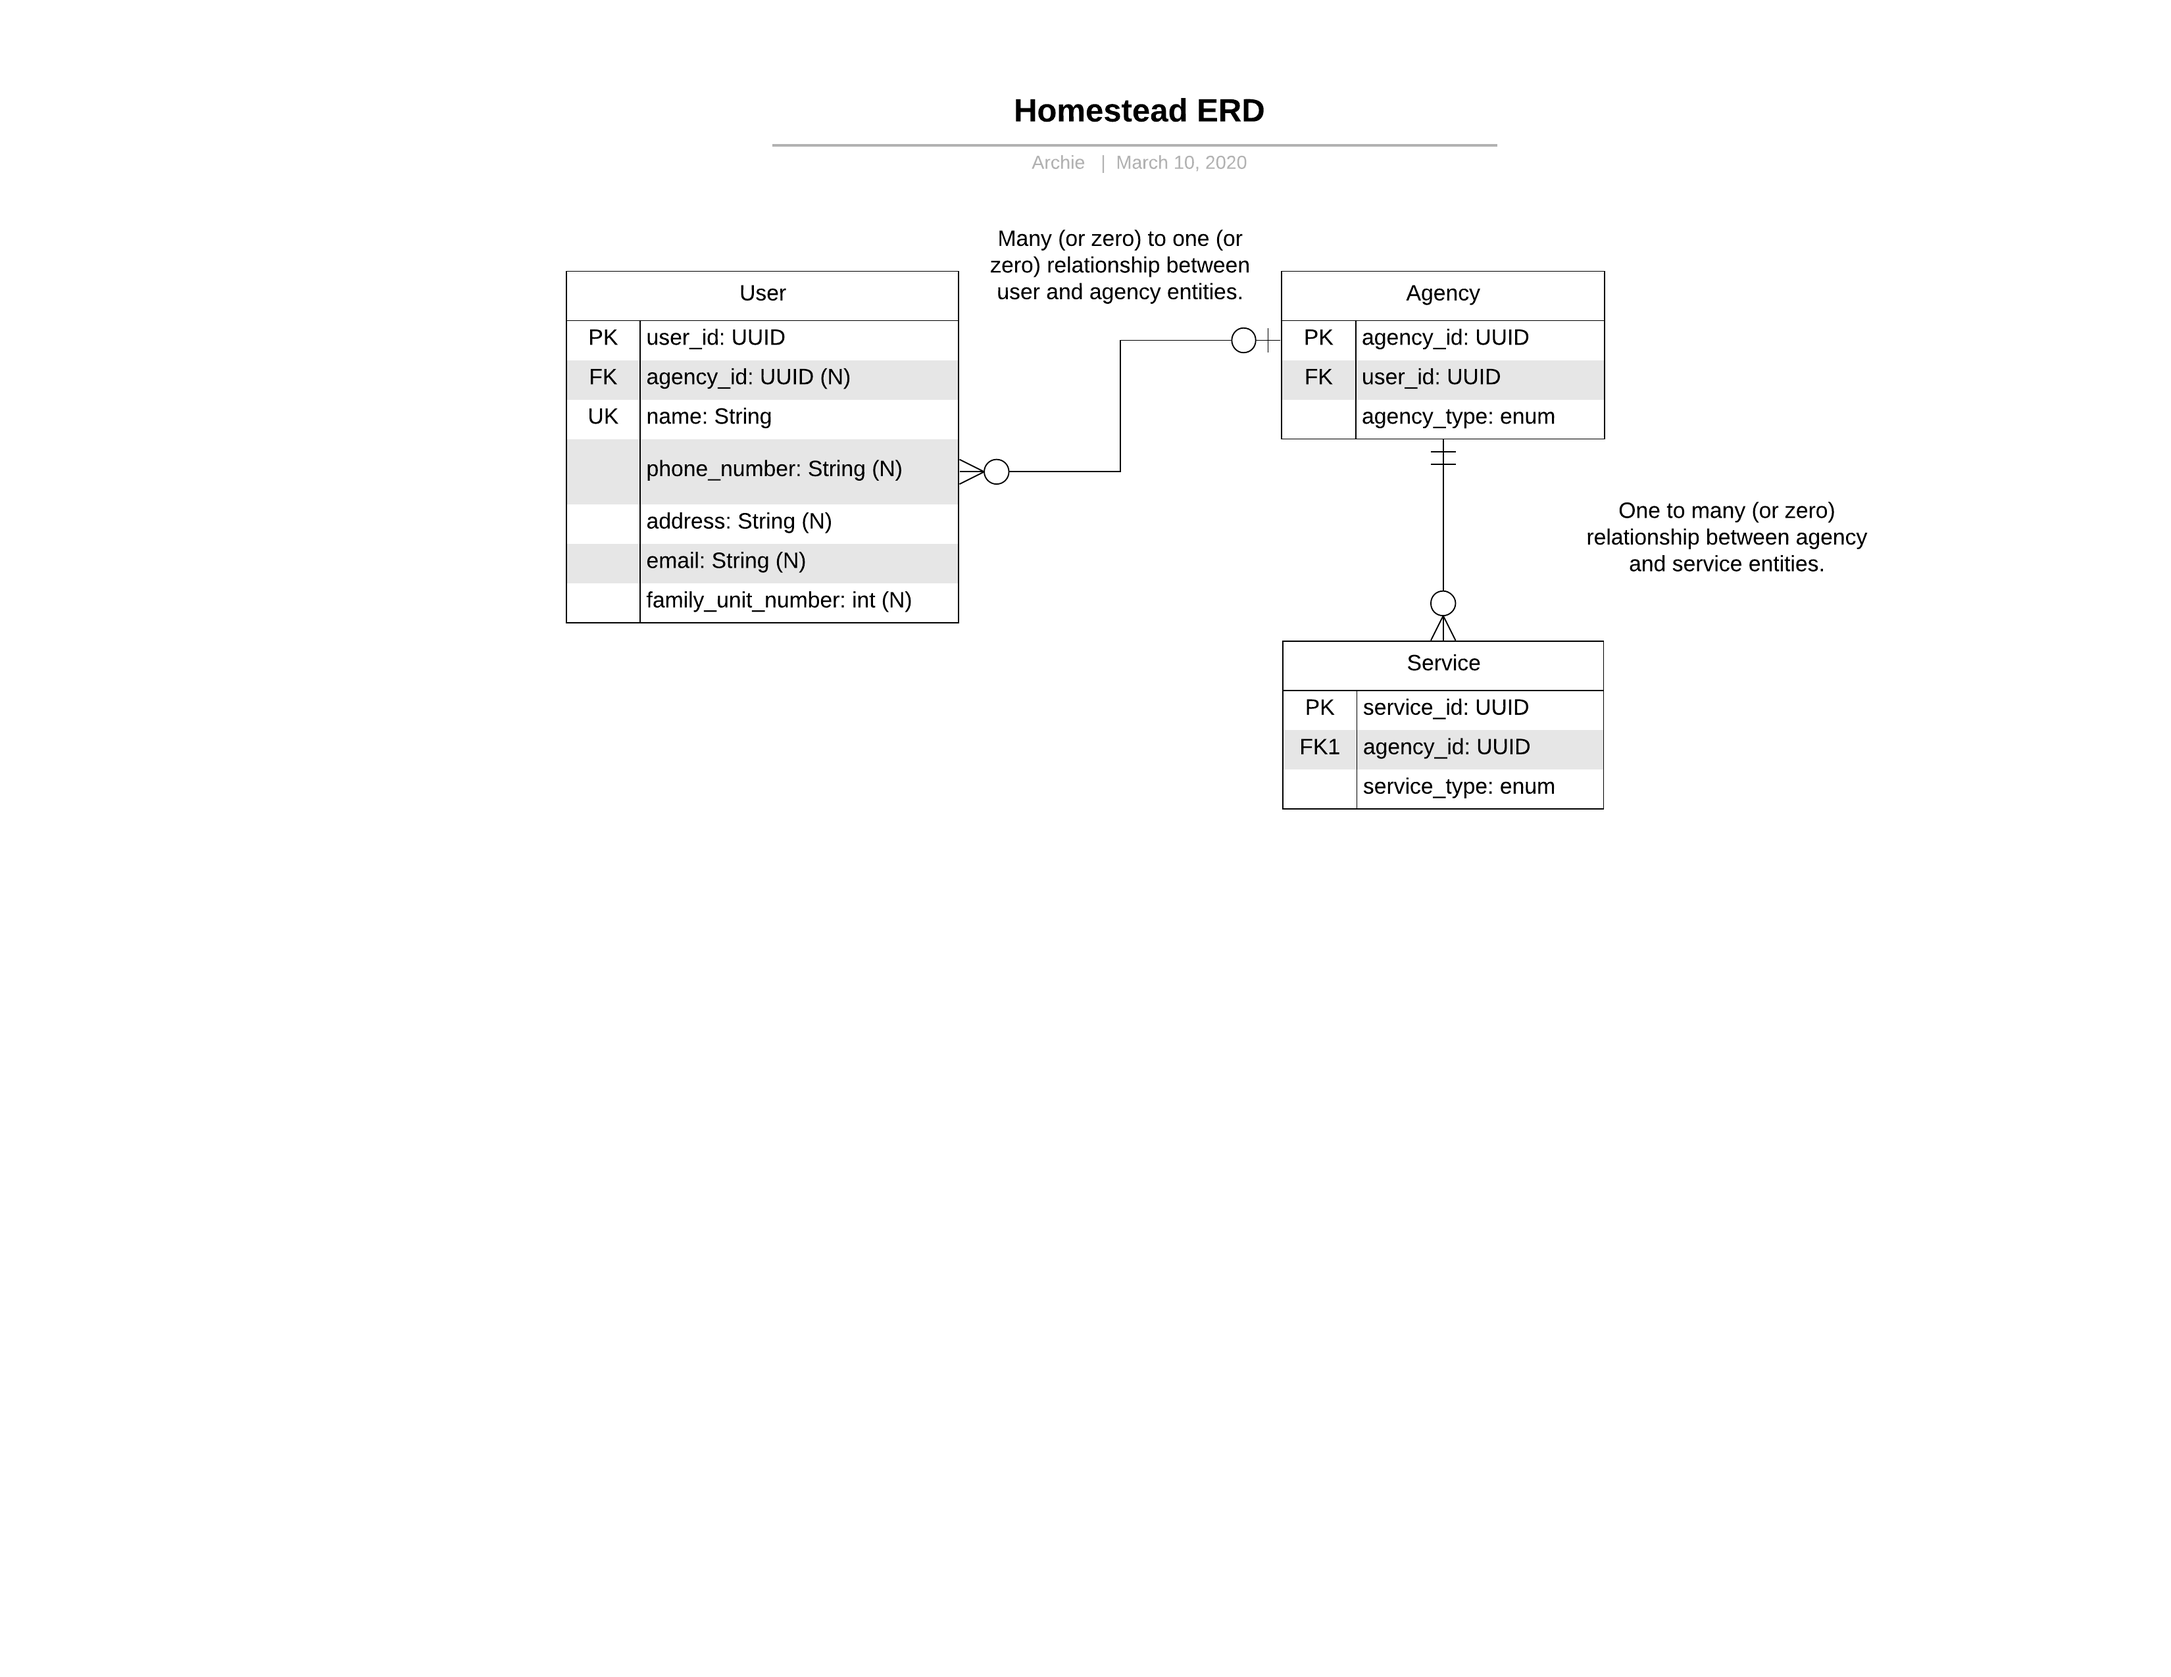
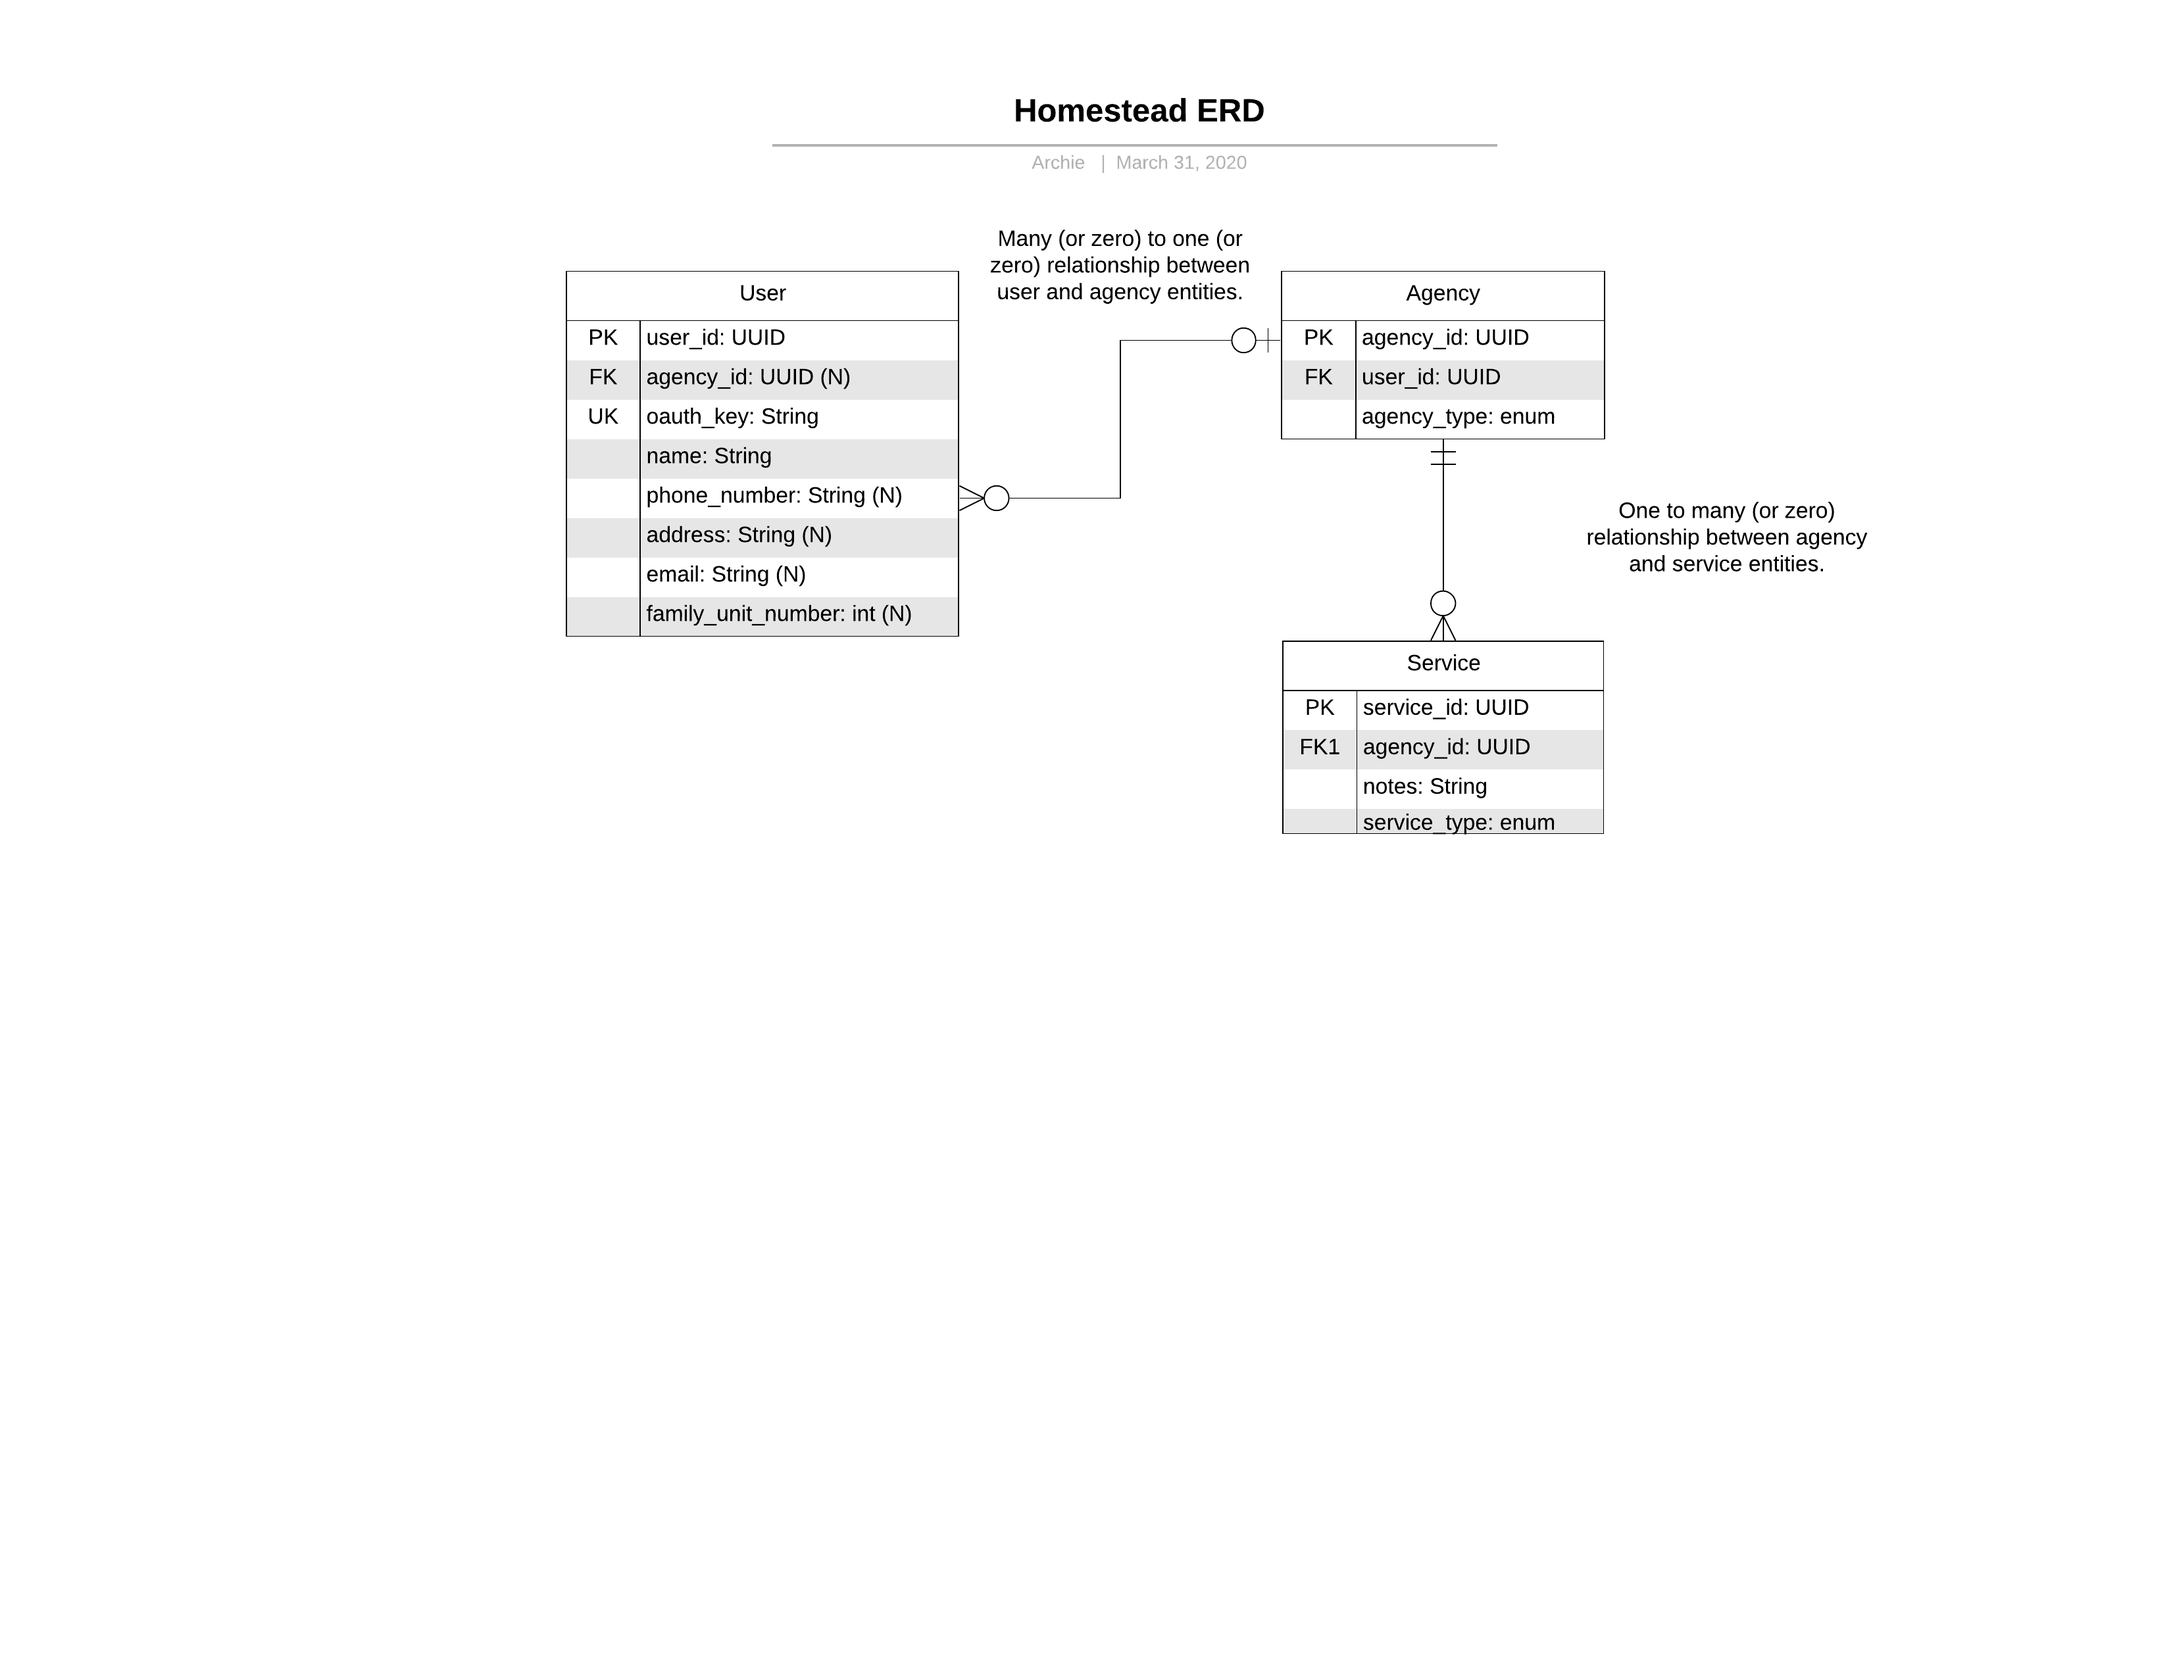
Added updated erd's and added links to archie.md.

Changed region(s): [[0.2497, 0.2478, 0.4682, 0.4027], [0.593, 0.4647, 0.7491, 0.4957]]

diff --git a/archie.md b/archie.md
@@ -1,7 +1,7 @@
 # Archie Jaramillo
 
-## [Linked In]()
+## [Linked In](https://www.linkedin.com/in/archie-jaramillo/)
 
-## [Personal Github Page]()
+## [Personal Github Page](https://github.com/ajaramillo76/ajaramillo76.github.io)
 
-## [Deepdive Personal Android Project]()
+## [Deepdive Personal Android Project](https://ajaramillo76.github.io/can-you-beat-rps-v2/)
